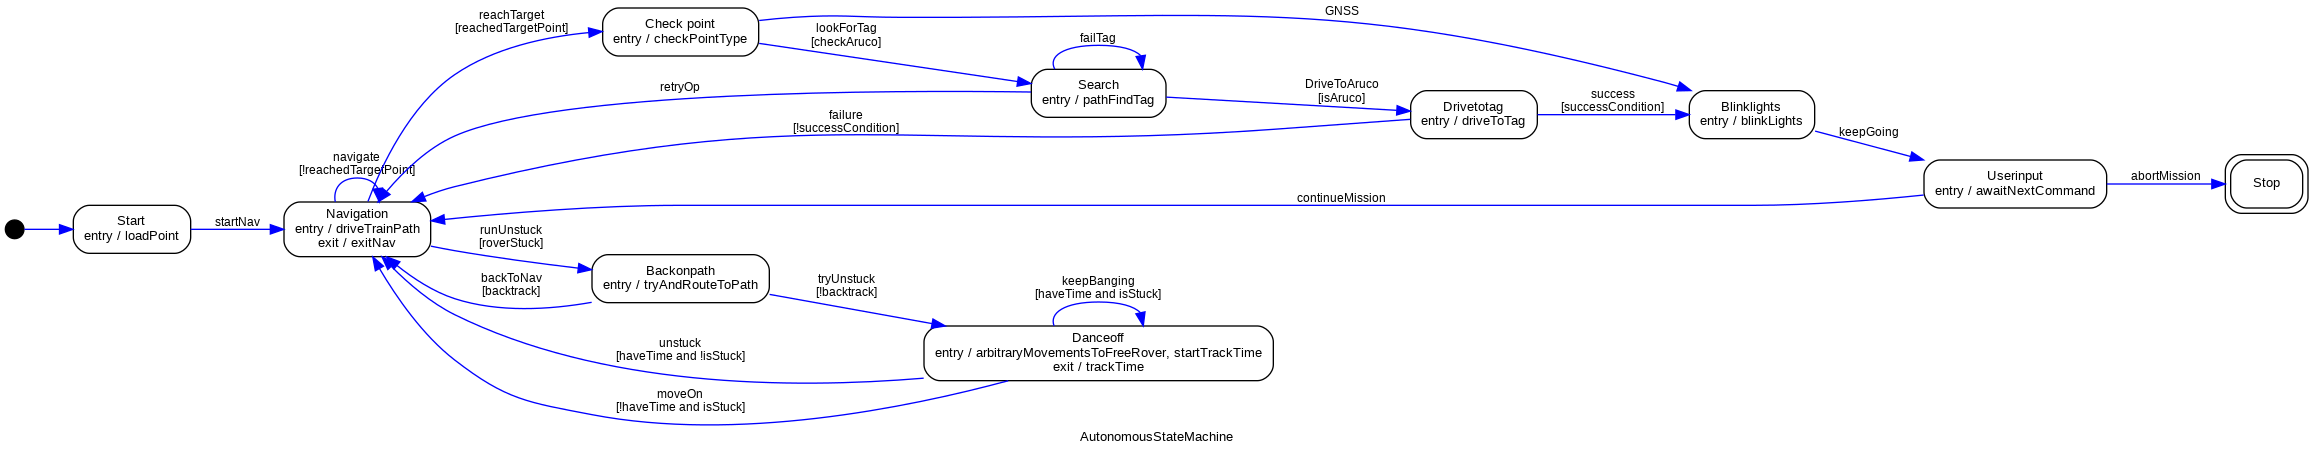
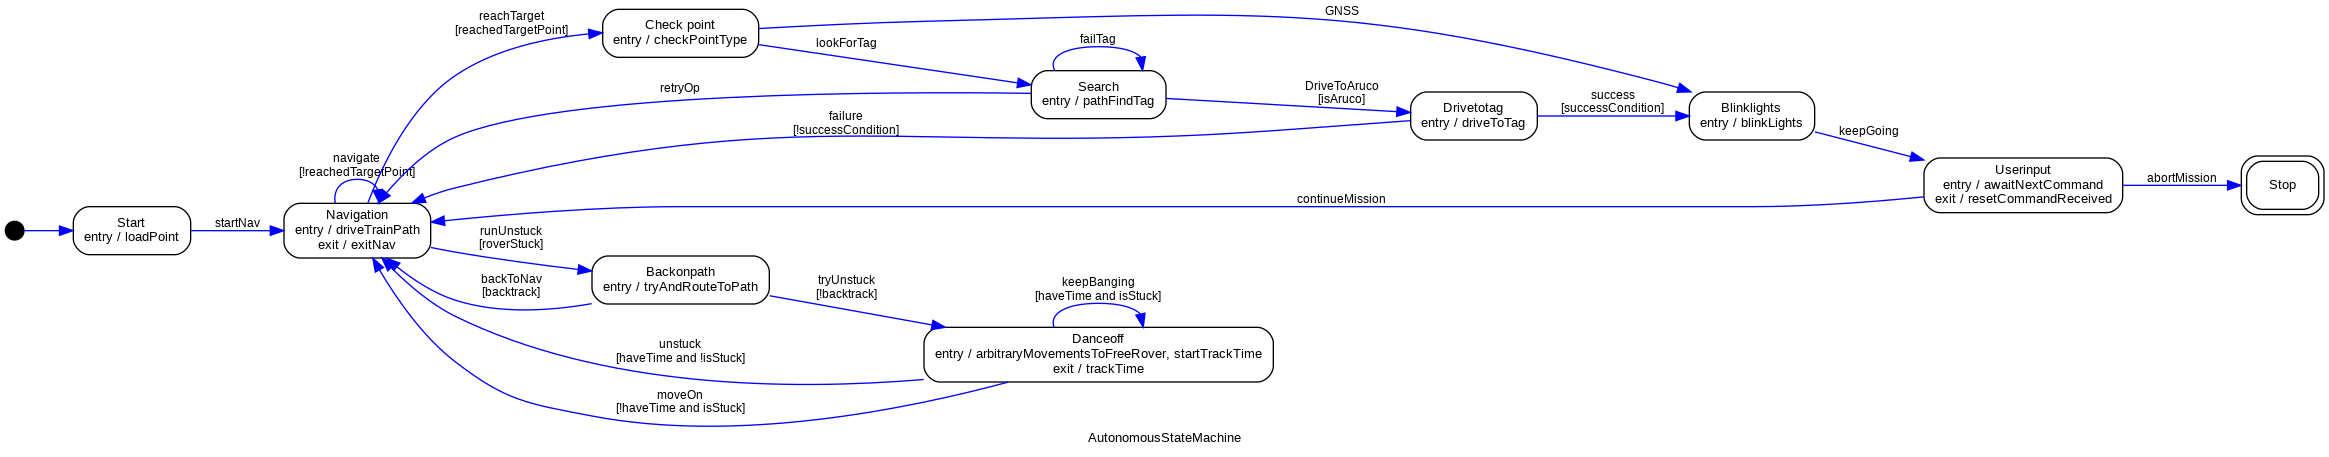
State machine better

diff --git a/src/Autonomous/state_machine/state_machine/Autonomous_State_Machine.py b/src/Autonomous/state_machine/state_machine/Autonomous_State_Machine.py
@@ -48,7 +48,7 @@ class AutonomousStateMachine(StateMachine):
     unstuck = danceOff.to(Navigation, cond="haveTime and !isStuck")
     moveOn = danceOff.to(Navigation, cond="!haveTime and isStuck") # Add a instance var here for checking in Navigation
     GNSS = Check_Point.to(BlinkLights)
-    lookForTag = Check_Point.to(Search, cond = "checkAruco")
+    lookForTag = Check_Point.to(Search)
     failTag = Search.to(Search)
     retryOp = Search.to(Navigation)
     DriveToAruco = Search.to(DriveToTag, cond = "isAruco")
@@ -202,10 +202,11 @@ class AutonomousStateMachine(StateMachine):
         """
         Accesses current point
         """
+        
         if self.target_type == 0:
             self.GNSS()
         else:
-            self.Search()
+            self.lookForTag()
 
     @Search.enter
     def pathFindTag(self):
@@ -221,7 +222,7 @@ class AutonomousStateMachine(StateMachine):
 
         self._send_goal_future.add_done_callback(self.obj_det_goal_response_callback)
         # Obstacle avoidance and driving behavior assumed to be handled by callbacks or another thread
-        self.model.get_logger().info("driveTrain: Navigation goal sent.")
+        self.model.get_logger().info("driveTrain: FindTag goal sent.")
 
     def obj_det_goal_response_callback(self, future):
         self.model.get_logger().info("response from action client object/detection")

diff --git a/src/Autonomous/object_detection/object_detection/object_detection.py b/src/Autonomous/object_detection/object_detection/object_detection.py
@@ -46,6 +46,8 @@ class ObjectDetectionClass(Node):
         # Publisher for drive commands
         self.swerve_publisher = self.create_publisher(Float32MultiArray, 'swerve', 1)
 
+        
+
     def aruco_feedback(self, msg):
         self.aruco_id = msg.target_id
         self.aruco_x =  msg.x_offset
@@ -62,6 +64,16 @@ class ObjectDetectionClass(Node):
         self.type = goal_handle.request.type
         feedback_msg = ObjectDetection.Feedback()
         msg = Float32MultiArray()
+        #Initialize values
+        self.get_logger().info('INIT VALUES ----------------')
+        self.aruco_id = -1
+        self.aruco_x =  0
+        self.aruco_distance =  10000
+        self.aruco_found = False
+
+        self.object_x = 0
+        self.object_distance = 10000
+        self.object_found = False
 
         rate = .1 # 1/.1 = 10 times per second
 

diff --git a/src/Autonomous/state_machine/launch/state_machine_launch.py b/src/Autonomous/state_machine/launch/state_machine_launch.py
@@ -27,4 +27,9 @@ def generate_launch_description():
             package='wr_drive_ai',
             executable='navigate_auto',
             name='navigate_auto'),
+        
+        launch_ros.actions.Node(
+            package='object_detection',
+            executable='object_detection',
+            name='object_detection'),
     ])
